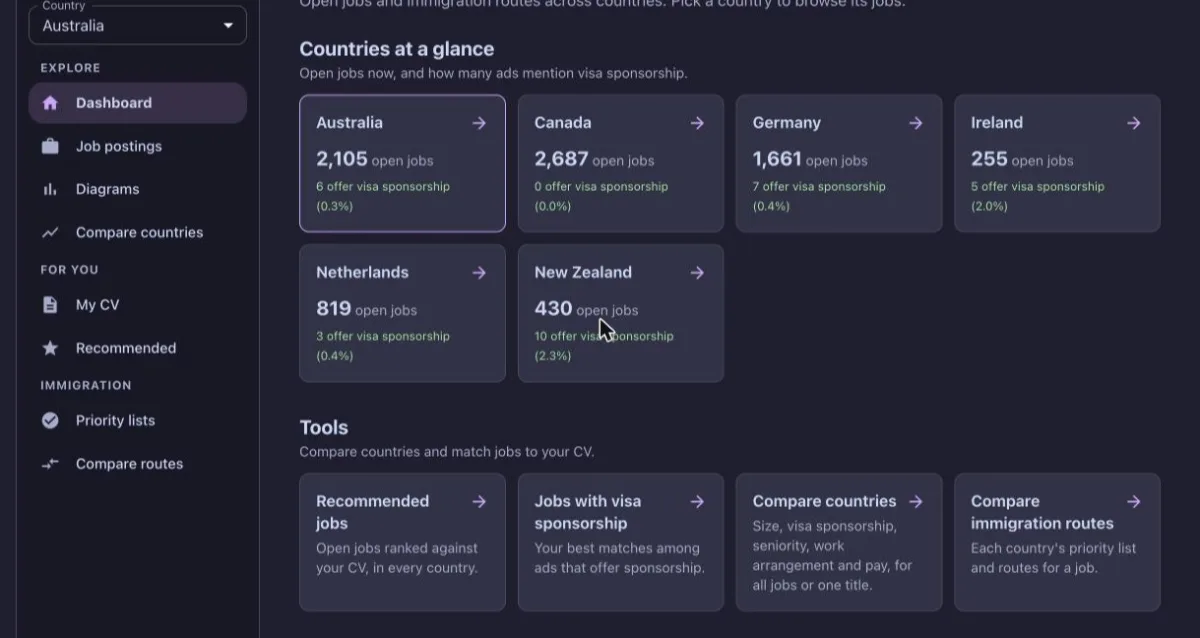
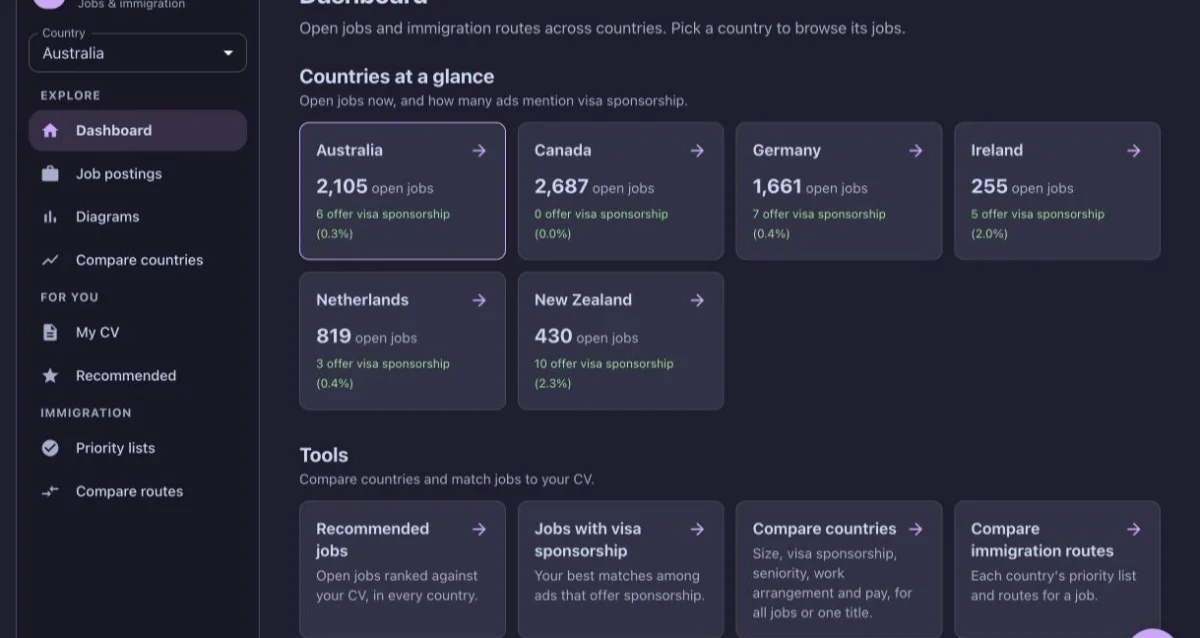
Name, section labels, Résumé button, new About, tighter spacing
- Huy Quoc Vo with "Also known as Steve Vo"; title and share text include both names,
  plus schema.org Person data listing alternate names for search
- Section labels (About, Experience, Personal projects) visible on desktop
- Résumé as a button under the status line; drop the duplicate link after Experience
- New About text; skill group labels in plain text colour (less purple)
- Job Scout screenshot retaken without the mouse pointer

diff --git a/src/components/Sidebar/Sidebar.jsx b/src/components/Sidebar/Sidebar.jsx
@@ -1,8 +1,9 @@
 import styled from "styled-components";
 import StatusPanel from "../StatusPanel/StatusPanel";
 import Reveal from "../Reveal/Reveal";
+import { FiFileText } from "react-icons/fi";
 import useActiveSection from "../../hooks/useActiveSection";
-import { NAME, ROLE, TAGLINE, NAV_SECTIONS, SOCIAL_LINKS } from "../../data/site";
+import { NAME, ALIAS, ROLE, TAGLINE, NAV_SECTIONS, SOCIAL_LINKS, RESUME_URL } from "../../data/site";
 
 const SECTION_IDS = NAV_SECTIONS.map(({ id }) => id);
 
@@ -28,6 +29,10 @@ const SidebarStyled = styled.header`
     letter-spacing: -0.02em;
     color: var(--clr-text);
   }
+  .alias {
+    margin-top: 0.25rem;
+    font-size: 0.875rem;
+  }
   .role {
     margin-top: 0.75rem;
     font-size: 1.25rem;
@@ -37,6 +42,26 @@ const SidebarStyled = styled.header`
   .tagline {
     max-width: 20rem;
     margin-top: 1rem;
+  }
+`;
+
+const ResumeButton = styled.a`
+  display: inline-flex;
+  align-items: center;
+  gap: 0.5rem;
+  margin-top: 1.25rem;
+  padding: 0.625rem 1rem;
+  font-size: 0.875rem;
+  font-weight: 600;
+  color: var(--clr-text);
+  border: 1px solid var(--clr-line);
+  border-radius: 6px;
+  transition: color 0.2s ease, border-color 0.2s ease;
+
+  &:hover,
+  &:focus-visible {
+    color: var(--clr-accent);
+    border-color: var(--clr-accent);
   }
 `;
 
@@ -105,6 +130,9 @@ function Sidebar() {
     <SidebarStyled>
       <div>
         <Reveal as="h1">{NAME}</Reveal>
+        <Reveal as="p" className="alias" delay={0.04}>
+          Also known as {ALIAS}
+        </Reveal>
         <Reveal as="p" className="role" delay={0.08}>
           {ROLE}
         </Reveal>
@@ -113,6 +141,12 @@ function Sidebar() {
         </Reveal>
         <Reveal delay={0.24}>
           <StatusPanel />
+        </Reveal>
+        <Reveal delay={0.32}>
+          <ResumeButton href={RESUME_URL} target="_blank" rel="noopener noreferrer">
+            <FiFileText aria-hidden="true" />
+            Résumé
+          </ResumeButton>
         </Reveal>
         <Nav aria-label="Sections">
           <ul>

diff --git a/index.html b/index.html
@@ -4,13 +4,25 @@
     <meta charset="UTF-8" />
     <link rel="icon" type="image/svg+xml" href="/favicon.svg" />
     <meta name="viewport" content="width=device-width, initial-scale=1.0" />
-    <meta name="description" content="Vo Quoc Huy, software engineer in Ho Chi Minh City. Full-stack applications and cloud infrastructure with Python, React, Azure and Kubernetes. Open to new roles." />
+    <meta name="description" content="Huy Quoc Vo (Steve Vo), software engineer in Ho Chi Minh City. Full-stack applications and cloud infrastructure with Python, React, Azure and Kubernetes. Open to new roles." />
     <meta name="theme-color" content="#1e1e2e" />
     <meta property="og:type" content="website" />
     <meta property="og:url" content="https://huyvq.netlify.app/" />
-    <meta property="og:title" content="Vo Quoc Huy - Software Engineer" />
+    <meta property="og:title" content="Huy Quoc Vo (Steve Vo) - Software Engineer" />
     <meta property="og:description" content="Full-stack applications and cloud infrastructure with Python, React, Azure and Kubernetes. Open to new roles." />
-    <title>Vo Quoc Huy - Software Engineer</title>
+    <title>Huy Quoc Vo (Steve Vo) - Software Engineer</title>
+    <script type="application/ld+json">
+      {
+        "@context": "https://schema.org",
+        "@type": "Person",
+        "name": "Huy Quoc Vo",
+        "alternateName": ["Steve Vo", "Vo Quoc Huy"],
+        "jobTitle": "Software Engineer",
+        "url": "https://huyvq.netlify.app/",
+        "address": { "@type": "PostalAddress", "addressLocality": "Ho Chi Minh City", "addressCountry": "VN" },
+        "sameAs": ["https://github.com/bmhuyquoc104", "https://www.linkedin.com/in/huyvoquoc"]
+      }
+    </script>
     <link rel="preconnect" href="https://fonts.googleapis.com">
     <link rel="preconnect" href="https://fonts.gstatic.com" crossorigin>
     <link href="https://fonts.googleapis.com/css2?family=Inter:wght@400;500;600;700&family=JetBrains+Mono:wght@400;500&display=swap" rel="stylesheet">

diff --git a/src/data/site.js b/src/data/site.js
@@ -1,6 +1,7 @@
 import { FaGithub, FaLinkedinIn, FaEnvelope } from "react-icons/fa";
 
-export const NAME = "Vo Quoc Huy";
+export const NAME = "Huy Quoc Vo";
+export const ALIAS = "Steve Vo"; // English name, so foreign recruiters can address and search for you
 export const ROLE = "Software Engineer";
 export const TAGLINE =
   "I build full-stack applications and cloud infrastructure that solve business problems: faster pipelines, lower cloud cost, safer releases.";
@@ -21,8 +22,7 @@ export const NAV_SECTIONS = [
 ];
 
 export const ABOUT = [
-  "I'm a software engineer in Ho Chi Minh City. I build full-stack applications and cloud infrastructure (event-driven services, data pipelines, UIs and the platform they run on) with Python, React, Azure and Kubernetes, focused on reliable deployments, observability and cost.",
-  "Today I work at Modec on a distributed document platform and the infrastructure under it. Before that I was at Employment Hero and Athena Studio.",
+  "I work mostly in the terminal (Neovim, tmux, fish; my setup is on GitHub), use AI tools to move faster, and keep learning from new tech and books.",
 ];
 
 export const PROJECTS_INTRO =

diff --git a/src/components/Projects/Projects.jsx b/src/components/Projects/Projects.jsx
@@ -10,21 +10,6 @@ const featured = allProjects
   .filter((project) => project.featured)
   .sort((a, b) => a.featured - b.featured);
 
-// Desktop has no visible section titles, so the label is shown here; mobile already has a sticky title.
-const Label = styled.p`
-  display: none;
-  margin-bottom: 0.5rem;
-  font-size: 0.8125rem;
-  font-weight: 700;
-  letter-spacing: 0.1em;
-  text-transform: uppercase;
-  color: var(--clr-accent);
-
-  @media (min-width: 1024px) {
-    display: block;
-  }
-`;
-
 const AllLink = styled.a`
   display: inline-flex;
   align-items: center;
@@ -48,7 +33,6 @@ const AllLink = styled.a`
 function Projects() {
   return (
     <Section id="projects" title="Personal projects">
-      <Label>Personal projects</Label>
       <Intro>{PROJECTS_INTRO}</Intro>
       <ProjectList projects={featured} />
       <AllLink href="/projects">

diff --git a/src/components/Experience/Experience.jsx b/src/components/Experience/Experience.jsx
@@ -4,7 +4,7 @@ import { ItemList } from "../Section/parts";
 import ExternalLink from "../ExternalLink/ExternalLink";
 import Tag, { TagList } from "../Tag/Tag";
 import experiences from "../../data/experience";
-import { EDUCATION, RESUME_URL } from "../../data/site";
+import { EDUCATION } from "../../data/site";
 
 const Item = styled.li`
   display: grid;
@@ -39,10 +39,6 @@ const Education = styled(ItemList)`
     margin-top: 0.25rem;
     font-size: 0.875rem;
   }
-`;
-
-const ResumeLink = styled.div`
-  margin-top: 2rem;
 `;
 
 function Experience() {
@@ -82,9 +78,6 @@ function Experience() {
           </div>
         </Item>
       </Education>
-      <ResumeLink>
-        <ExternalLink href={RESUME_URL}>View full résumé</ExternalLink>
-      </ResumeLink>
     </Section>
   );
 }

diff --git a/src/components/Section/Section.jsx b/src/components/Section/Section.jsx
@@ -23,13 +23,11 @@ const SectionStyled = styled(m.section)`
   @media (min-width: 1024px) {
     scroll-margin-top: 6rem;
     .title {
-      position: absolute;
-      width: 1px;
-      height: 1px;
-      overflow: hidden;
-      clip: rect(0 0 0 0);
+      position: static;
+      margin: 0 0 1.5rem;
       padding: 0;
-      margin: -1px;
+      background: none;
+      backdrop-filter: none;
     }
   }
 `;

diff --git a/src/components/About/About.jsx b/src/components/About/About.jsx
@@ -18,7 +18,7 @@ const Skills = styled.dl`
   dt {
     font-size: 0.8125rem;
     font-weight: 600;
-    color: var(--clr-accent);
+    color: var(--clr-text);
   }
   dd {
     font-size: 0.875rem;

diff --git a/GLOSSARY.md b/GLOSSARY.md
@@ -1,6 +1,6 @@
 # Portfolio
 
-A one-page personal site whose job is to get Vo Quoc Huy hired as a software engineer. Its reader is a recruiter or hiring manager who skims for about a minute.
+A one-page personal site whose job is to get Huy Quoc Vo hired as a software engineer. Its reader is a recruiter or hiring manager who skims for about a minute.
 
 ## Language
 

diff --git a/README.md b/README.md
@@ -1,6 +1,6 @@
 # Portfolio
 
-One-page portfolio for Vo Quoc Huy, software engineer. Live at [huyvq.netlify.app](https://huyvq.netlify.app/).
+One-page portfolio for Huy Quoc Vo (Steve Vo), software engineer. Live at [huyvq.netlify.app](https://huyvq.netlify.app/).
 
 ## Stack
 
